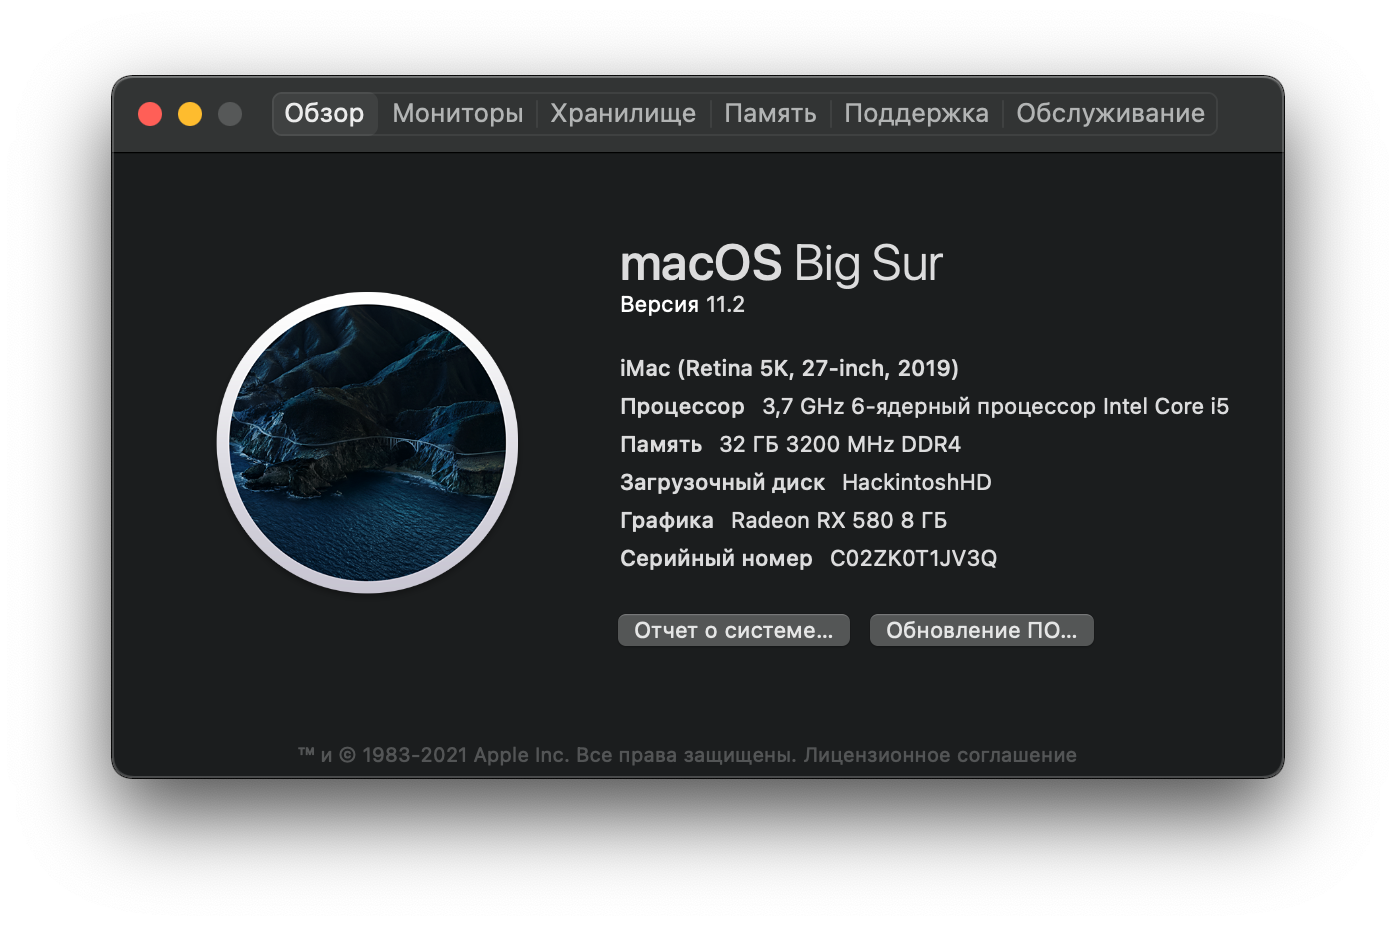
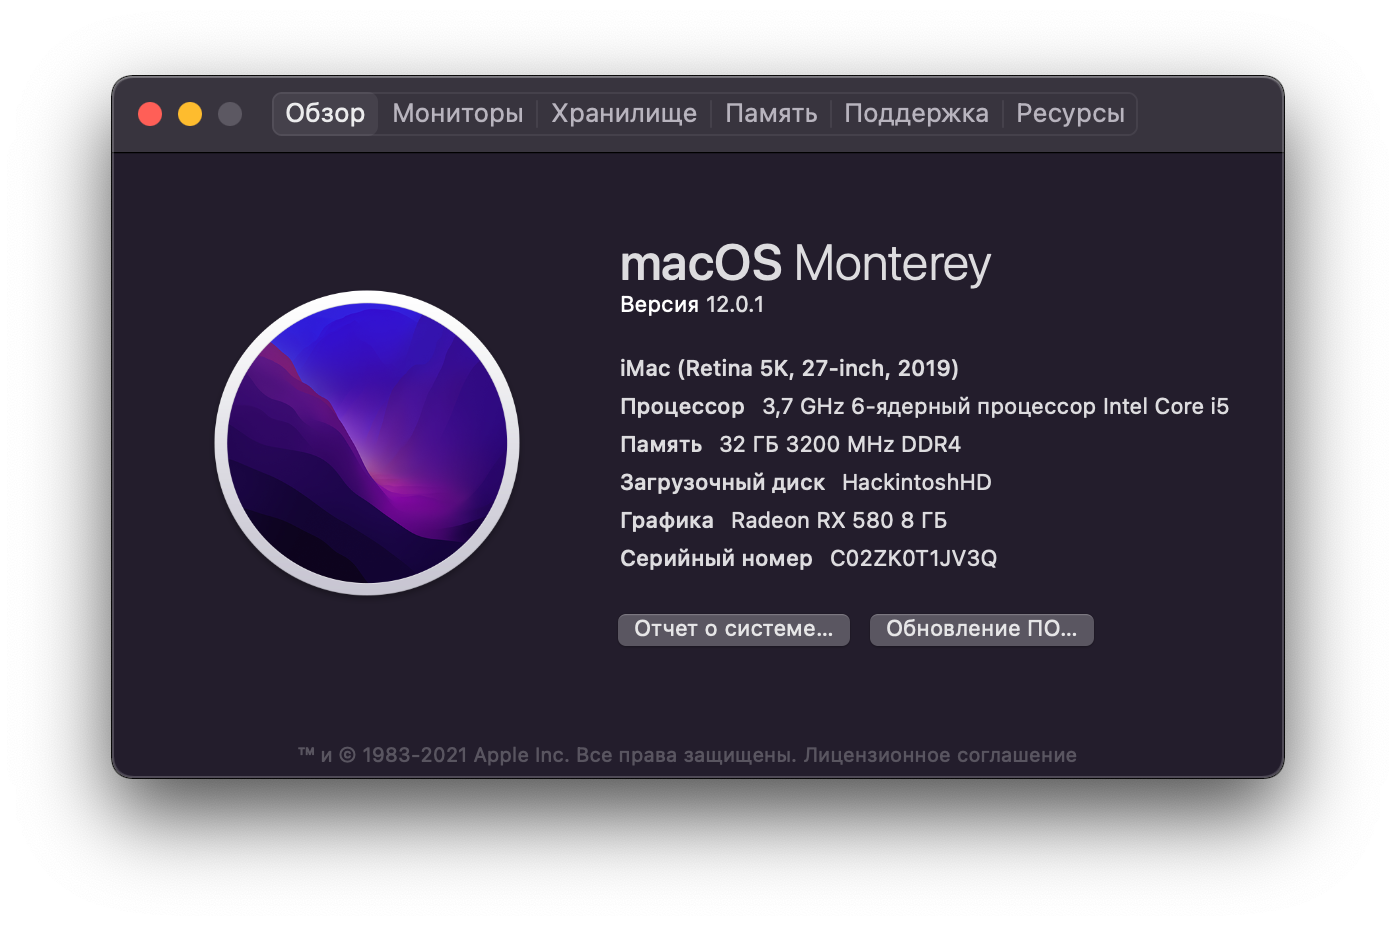
info update

diff --git a/README.md b/README.md
@@ -1,6 +1,6 @@
 ### Hackintosh for Asus ROG Strix Z390-E
 
-__OpenCore 0.7.4 | MacOS Big Sur 11.6__
+__[OpenCore 0.7.4](https://github.com/acidanthera/OpenCorePkg) | MacOS Monterey 12.0.1__
 
 ### 📸 Screenshots
 <details>
